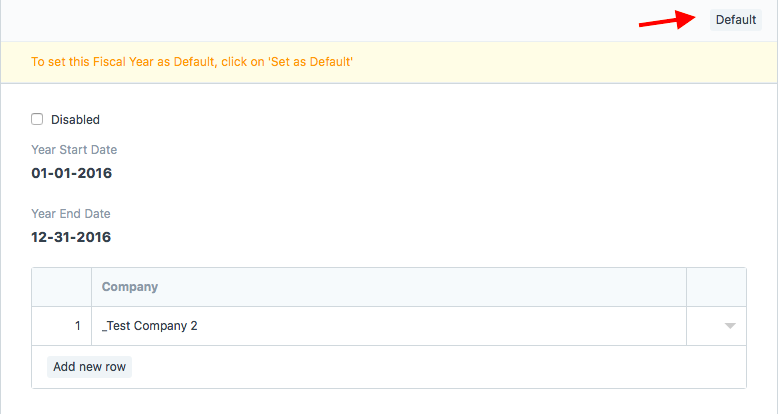
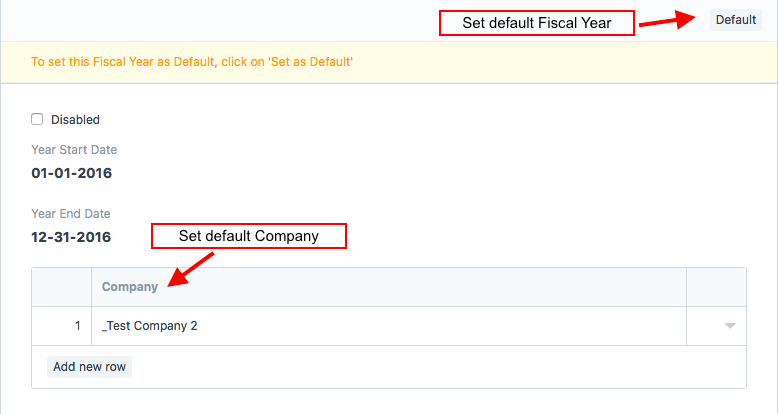
[fix] #6566

Changed region(s): [[0.1849, 0.5217, 0.4621, 0.6957], [0.5546, 0.0, 0.8318, 0.087]]

diff --git a/erpnext/docs/user/manual/en/accounts/setup/fiscal-year.md b/erpnext/docs/user/manual/en/accounts/setup/fiscal-year.md
@@ -20,9 +20,9 @@ desired profit margins.
 
 To set the Fiscal Year as default, click on the 'Default' button.
 
-<img class="screenshot" alt="Fiscal Year" src="{{docs_base_url}}/assets/img/accounts/fiscal-year.png">
+In case you have more than one company sharing the same Fiscal Year, you can
+it into the Grid as shown below.
 
-In case you have more than One Company sharing the same Fiscal Year, you can
-add it in the Company Grid.
+<img class="screenshot" alt="Fiscal Year" src="{{docs_base_url}}/assets/img/accounts/fiscal-year.png">
 
 {next}
